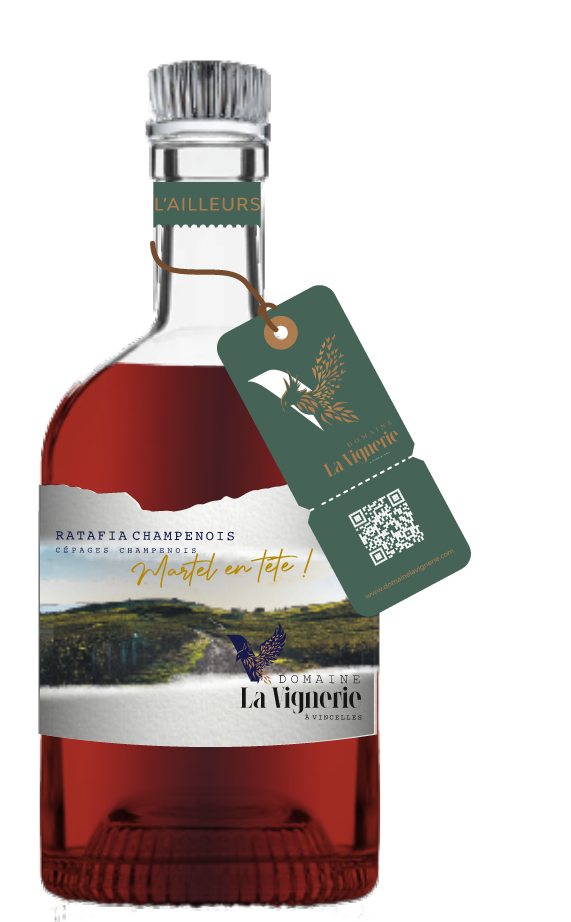
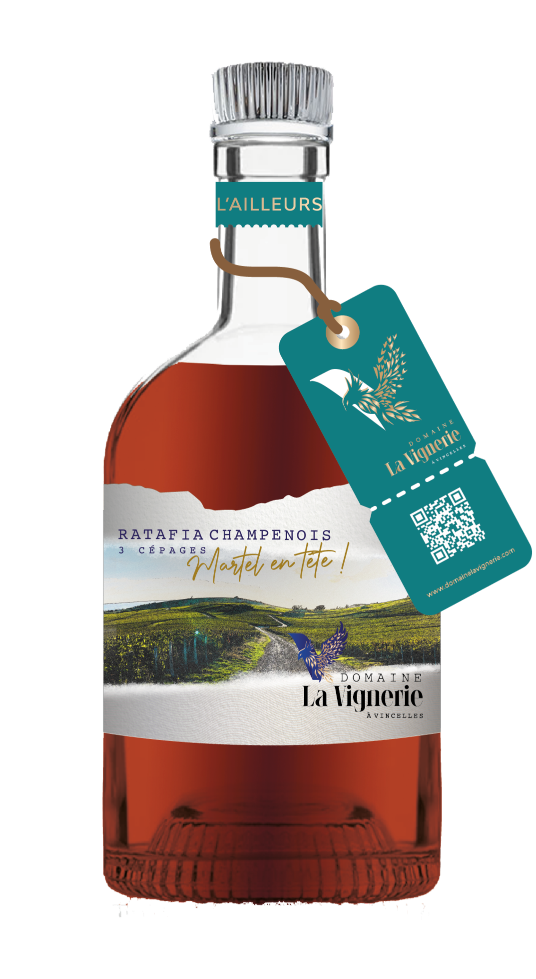
4ème slide

diff --git a/slider/index.html b/slider/index.html
@@ -32,6 +32,12 @@
             <img class="slide_bouteille" src="./img/bouteille3.png" alt="Bouteille n°3">
         </div>
 
+        <!-- Slide 4 -->
+        <div class="slide">
+            <img class="slide_decor" src="./img/DECOR2.png" alt="Fond du slide n°2">
+            <img class="slide_bouteille" src="./img/bouteille4.png" alt="Bouteille n°4">
+        </div>
+
         <!-- Navigation du slider (flèche gauche / droite + bouton de validation) -->
         <div class="slide_navigation">
             <!-- Bouton slide précédent -->
